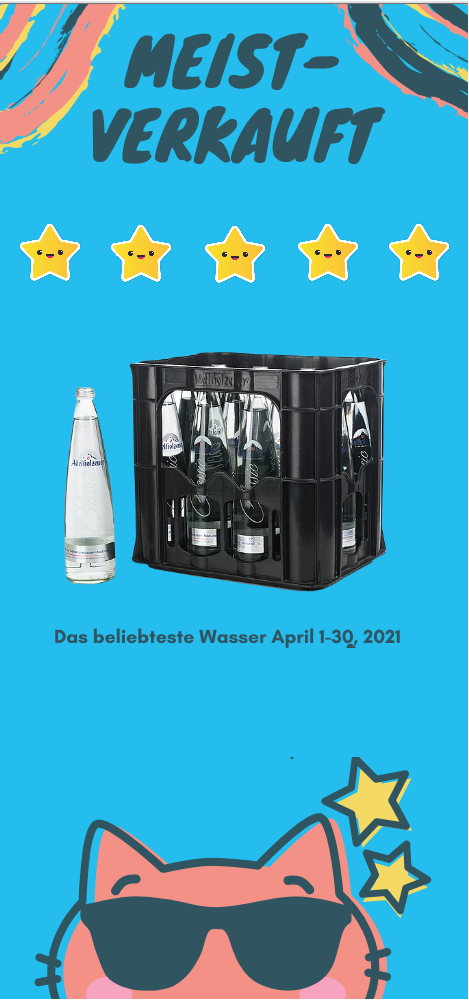
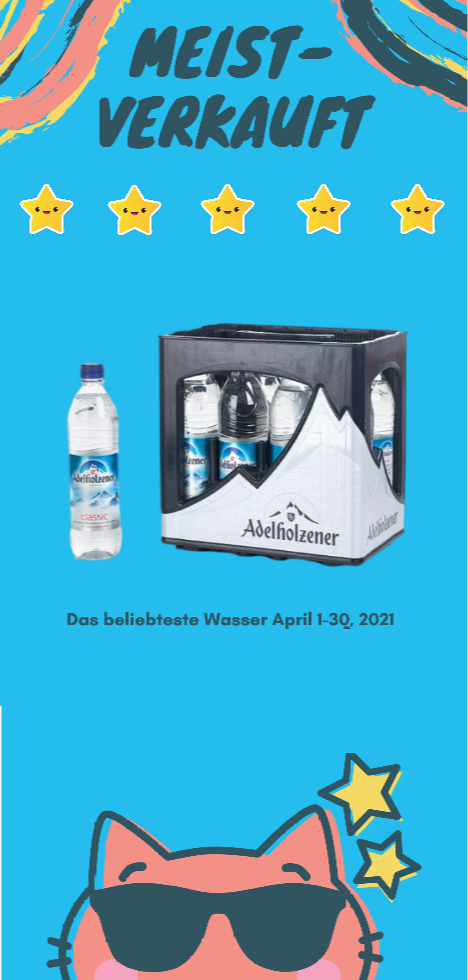
right

diff --git a/src/main/resources/static/main.html b/src/main/resources/static/main.html
@@ -83,12 +83,21 @@
                 </div>
                 <div class="fresh_right">
                     <ul>
+<!--                        <li th:each="productVO:${productCategory.productVOList}">-->
+<!--                            <a th:href="'/product/findById/'+ ${productVO.id}">-->
+<!--                                <img th:src="'/images/'+${productVO.rightImg}" height="220"/></a></li>-->
+<!--                        <li th:each="productVO:${productCategory.productVOList}">-->
+<!--                            <a th:href="'/product/findById/'+ ${productVO.id+1}">-->
+<!--                                <img th:src="'/images/'+${productVO.fileName+1}" height="220" style="margin-top: 5px" /></a></li>-->
+
                         <li th:each="productVO:${productCategory.productVOList}">
-                            <a th:href="'/product/findById/'+ ${productVO.id+6}">
-                                <img th:src="'/images/'+${productVO.fileName}" height="220"/></a></li>
-                        <li th:each="productVO:${productCategory.productVOList}">
-                            <a th:href="'/product/findById/'+ ${productVO.id+10}">
-                                <img th:src="'/images/'+${productVO.fileName}" height="220" style="margin-top: 5px" /></a></li>
+                            <a th:href="'/product/findById/'+ ${productVO.id}">
+                                <img th:src="'/images/'+${productCategory.rightImg}" height="220"
+                        /></a></li>
+<!--                        <li th:each="productVO:${productCategory.productVOList}">-->
+<!--                            <a th:href="'/product/findById/'+ ${productVO.id+6}">-->
+<!--                                <img src="/images/13.png" height="220"-->
+<!--                                                               style="margin-top: 5px" /></a></li>-->
                     </ul>
                 </div>
             </div>

diff --git a/src/main/java/com/southwind/drinkshop/service/impl/ProductCategoryServiceImpl.java b/src/main/java/com/southwind/drinkshop/service/impl/ProductCategoryServiceImpl.java
@@ -43,6 +43,7 @@ public class ProductCategoryServiceImpl extends ServiceImpl<ProductCategoryMappe
         for (int i = 0; i < levelOneVO.size(); i++) {
             levelOneVO.get(i).setBannerImg("/images/banner"+i+".png");
             levelOneVO.get(i).setTopImg("/images/top"+i+".png");
+            levelOneVO.get(i).setRightImg("/images/right"+i+".png");//
             wrapper = new QueryWrapper();
             wrapper.eq("categorylevelone_id",levelOneVO.get(i).getId());
             List<Product> productList = productMapper.selectList(wrapper);

diff --git a/src/main/java/com/southwind/drinkshop/vo/ProductCategoryVO.java b/src/main/java/com/southwind/drinkshop/vo/ProductCategoryVO.java
@@ -12,6 +12,7 @@ public class ProductCategoryVO {
     private String bannerImg;
     private String topImg;
     private List<ProductVO> productVOList;
+    private String rightImg;
 
      public ProductCategoryVO(Integer id, String name) {
          this.id = id;
